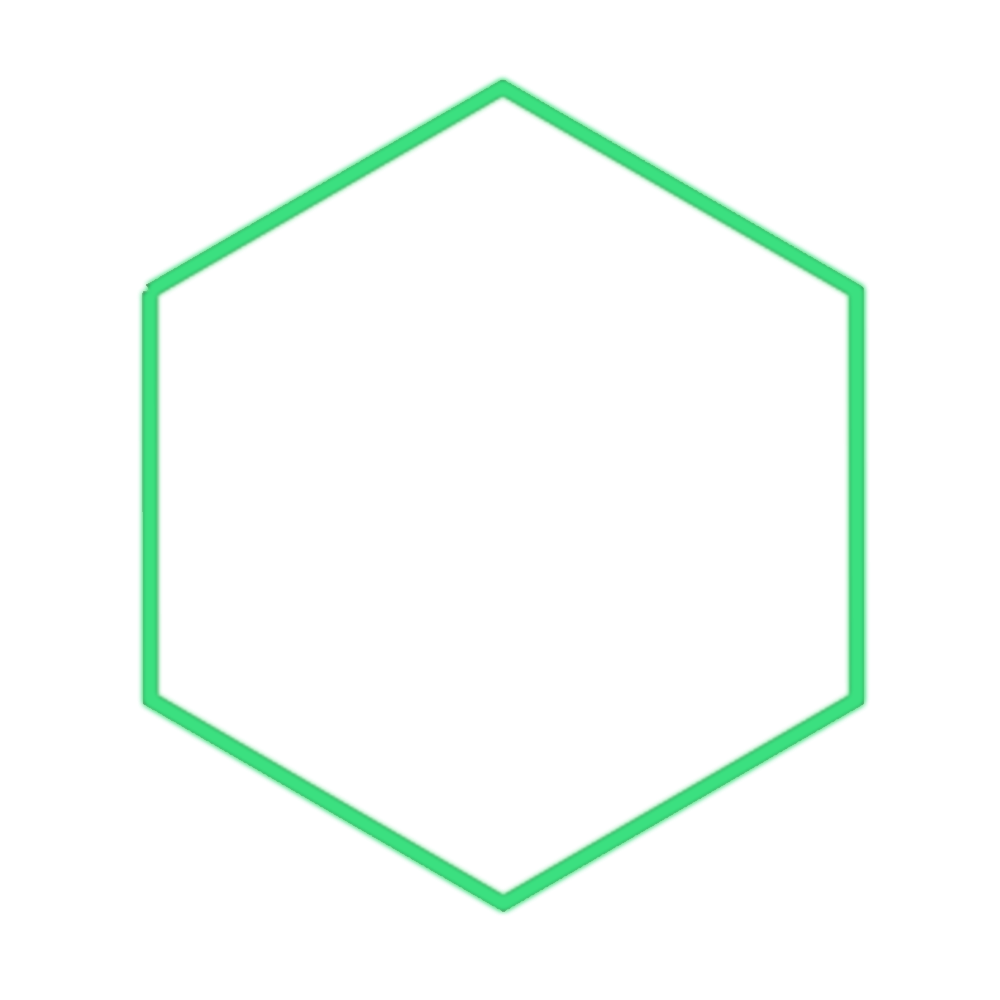
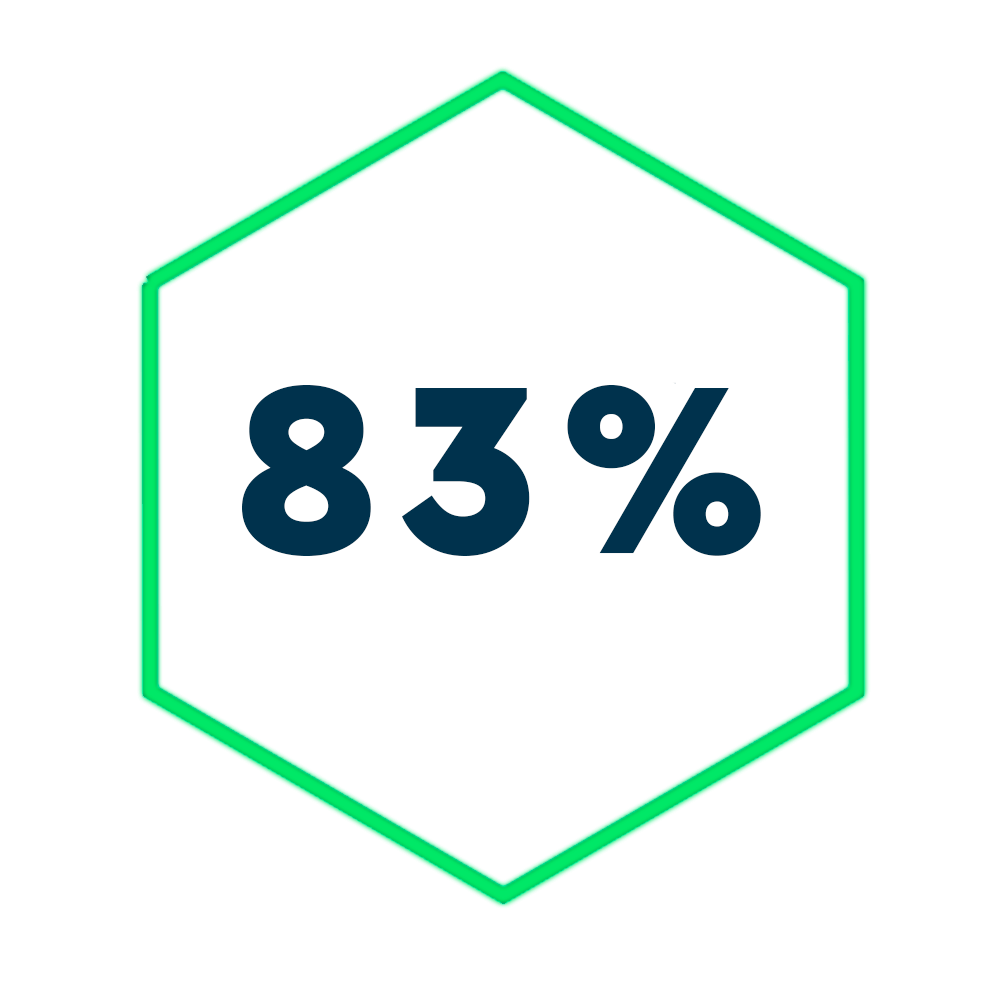
Correction

diff --git a/components/UpgradeStep.tsx b/components/UpgradeStep.tsx
@@ -1,8 +1,6 @@
 import React from 'react';
 import { View, Text, StyleSheet, Image, ViewStyle } from 'react-native';
 
-
-
 const Arrow = require('../assets/arrow.png');
 const HexagonGrey = require('../assets/HexagonGrey.png');
 const HexagonBlueFully = require('../assets/HexagonBlueFull.png');
@@ -22,9 +20,15 @@ const UpgradeStep: React.FC<CustomContainerProps> = ({ Title, Desc, style, Image
       </View>
       <Image source={ImageDeco} style={styles.Image} />
       <View style={styles.HexagonContainer}>
-        <Image source={HexagonGrey} style={styles.Hexagon} />
+        <View style={styles.HexagonWrapper}>
+          <Image source={HexagonGrey} style={styles.Hexagon} />
+          <Text style={styles.HexagonTextBlack}>83%</Text>
+        </View>
         <Image source={Arrow} style={styles.Arrow} />
-        <Image source={HexagonBlueFully} style={styles.HexagonFull} />
+        <View style={styles.HexagonWrapper}>
+          <Image source={HexagonBlueFully} style={styles.HexagonFull} />
+          <Text style={styles.HexagonText}>100%</Text>
+        </View>
       </View>
       <View style={styles.LittleContainersRow}>
         <View style={[styles.LittleContainer, { marginRight: 12 }]}>
@@ -37,7 +41,6 @@ const UpgradeStep: React.FC<CustomContainerProps> = ({ Title, Desc, style, Image
           </View>
         </View>
         <View style={styles.LittleContainer}>
-        <View style={[styles.LittleContainer, { marginRight: 12 }]}>
           <View style={stylesText.NumberContainer}>
             <View style={stylesText.NumberRow}>
               <Text style={stylesText.NumberLeft}>14/</Text>
@@ -45,7 +48,6 @@ const UpgradeStep: React.FC<CustomContainerProps> = ({ Title, Desc, style, Image
             </View>
             <Text style={stylesText.Desc}>Objectif de prises validées à atteindre</Text>
           </View>
-        </View>
         </View>
       </View>
     </View>
@@ -63,27 +65,27 @@ const stylesText = StyleSheet.create({
         marginLeft: 10,
     },
     NumberContainer: {
-        flexDirection: 'column', // Colonne pour que la description soit en dessous
+        flexDirection: 'column',
         alignItems: 'flex-start',
         marginTop: 15,
         marginLeft: 10,
     },
     NumberRow: {
-        flexDirection: 'row', // Ligne pour aligner "11/" et "14"
+        flexDirection: 'row',
     },
     NumberLeft: {
         fontFamily: 'Cera Pro', 
         fontSize: 21,
         fontWeight: '700',
         lineHeight: 20.75,
-        color: '#153247', // Couleur différente pour "11/"
+        color: '#153247',
     },
     NumberRight: {
         fontFamily: 'Cera Pro', 
         fontSize: 21,
         fontWeight: '700',
         lineHeight: 20.75,
-        color: '#8BA0AC', // Couleur pour "14"
+        color: '#8BA0AC',
     },
     Desc: {
         fontFamily: 'Cera Pro', 
@@ -93,7 +95,6 @@ const stylesText = StyleSheet.create({
         color: '#8BA0AC',
         marginTop: 5,
         height: 40,
-        
     },
 });
 
@@ -143,10 +144,16 @@ const styles = StyleSheet.create({
     transform: [{ rotate: '-10deg' }],
     opacity: 0.4,
   },
-  Arrow: {
-    width: 21,
-    height: 21,
-    marginHorizontal: 10, 
+  HexagonContainer: { 
+    flexDirection: 'row', 
+    justifyContent: 'center',  
+    alignItems: 'center',  
+    marginTop: 20,  
+  },
+  HexagonWrapper: {
+    justifyContent: 'center',
+    alignItems: 'center',
+    position: 'relative',
   },
   Hexagon: {
     width: 90.49,
@@ -156,12 +163,30 @@ const styles = StyleSheet.create({
     width: 111,
     height: 111,
   },
-  HexagonContainer: { 
-    flexDirection: 'row', 
-    justifyContent: 'center',  
-    alignItems: 'center',  
-    marginTop: 20,  
+  Arrow: {
+    width: 21,
+    height: 21,
+    marginHorizontal: 10, 
   },
+  HexagonText: {
+    position: 'absolute',
+    fontFamily: 'Cera Pro', 
+    fontSize: 25,
+    fontWeight: '900',
+    color: '#FFFFFF',
+    textAlign: 'center',
+    paddingLeft: 10,
+  },
+  HexagonTextBlack: {
+    position: 'absolute',
+    fontFamily: 'Cera Pro', 
+    fontSize: 25,
+    fontWeight: '900',
+    color: '#03314B',
+    textAlign: 'center',
+    paddingLeft: 10,
+  },
+
 });
 
 export default UpgradeStep;

diff --git a/components/Carousel.tsx b/components/Carousel.tsx
@@ -4,6 +4,7 @@ import { View, ScrollView, Dimensions, StyleSheet, Animated, Text, Image } from 
 
 const { width } = Dimensions.get('window');
 const containerWidth = 344.43 + 32;
+const Etoile = require('../assets/Etoile.png');
 
 const Carousel = () => {
   const scrollX = useRef(new Animated.Value(0)).current;
@@ -40,6 +41,16 @@ const Carousel = () => {
             source={require('../assets/img/Trophy.png')} 
             style={styleCard2.image}
           />
+         <Image 
+            source={Etoile} 
+            style={styleCard2.EtoileTop}
+          />
+          <Image 
+            source={Etoile} 
+            style={styleCard2.EtoileBot}
+          />
+  
+          
    
         </View>
         <View style={styleCard3.container}>
@@ -151,18 +162,6 @@ const styleCard2 = StyleSheet.create({
     backgroundColor: '#FDF3DC', 
     overflow: 'hidden',
   },
-
-circleTop: {
-  width: 140,
-  height: 140,
-  borderRadius: 100,
-  backgroundColor: '#BEF5D8',
-  position: 'absolute',
-  top: -30,
-  left: -30,
-
-},
-
 image: {
   width: 153,
   height: 153,
@@ -173,14 +172,21 @@ image: {
   transform: [{ rotate: '-10deg' }],
 },
 
-circleBot: {
-  width: 155,
-  height: 155,
-  borderRadius: 100,
-  backgroundColor: '#BEF5D8',
+EtoileTop: {
+  width: 81,
+  height: 81,
   position: 'absolute',
-  top: 185,
-  left: 222,
+  top: 20,
+  left: 16,
+
+},
+
+EtoileBot: {
+  width: 81,
+  height: 81,
+  position: 'absolute',
+  top: 125,
+  left: 253,
 },
 
 

diff --git a/screens/HomePage.tsx b/screens/HomePage.tsx
@@ -32,11 +32,11 @@ const HomePage: React.FC = () => {
       <CarouselModel />
       <Title text="Vue d'ensemble" />
       <View style={styles.containerRow}>
-        <CustomContainer text="🙂 Votre observance" hexagonImage={hexagonGreen} style={styles.customContainer} />
-        <CustomContainer text="💊 Votre record de prises consécutives"  hexagonImage={hexagonYellow}  style={styles.customContainer} />
+        <CustomContainer text="🙂 Votre observance" hexagonImage={hexagonGreen} hexagonText="10%" style={styles.customContainer} />
+        <CustomContainer text="💊 Votre record de prises consécutives"  hexagonImage={hexagonYellow} hexagonText="1O" style={styles.customContainer} />
       </View>
       <View style={styles.containerMarge}>
-        <LargeContainer text="Nombre de prises manquées"  hexagonImage={hexagonRed} ImageDeco={CalendrierDeco}  style={styles.customContainer} />
+        <LargeContainer text="Nombre de prises manquées" hexagonImage={hexagonRed} ImageDeco={CalendrierDeco}  style={styles.customContainer} />
       </View>
       <View style={styles.containerMarge}>
         <LargeContainerInfo Title="1 symptôme ressenti"  Desc="Sensation de coeur qui bat
